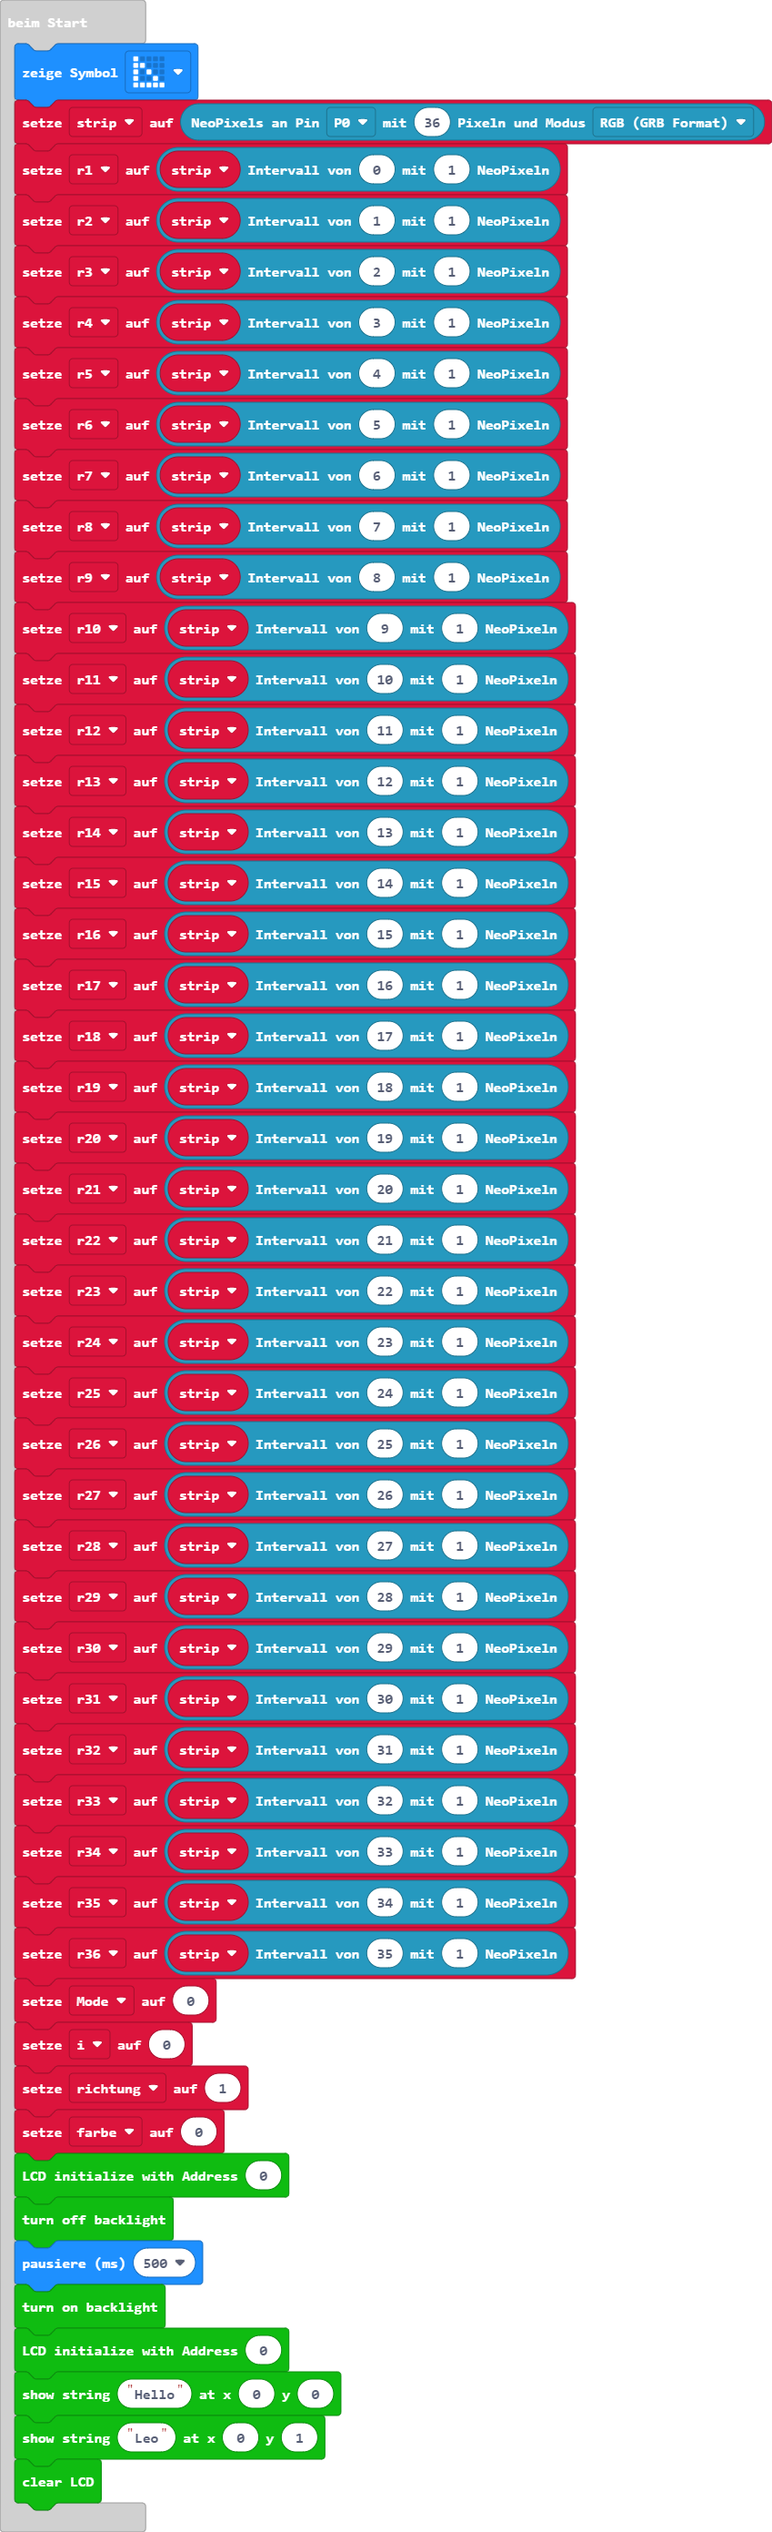
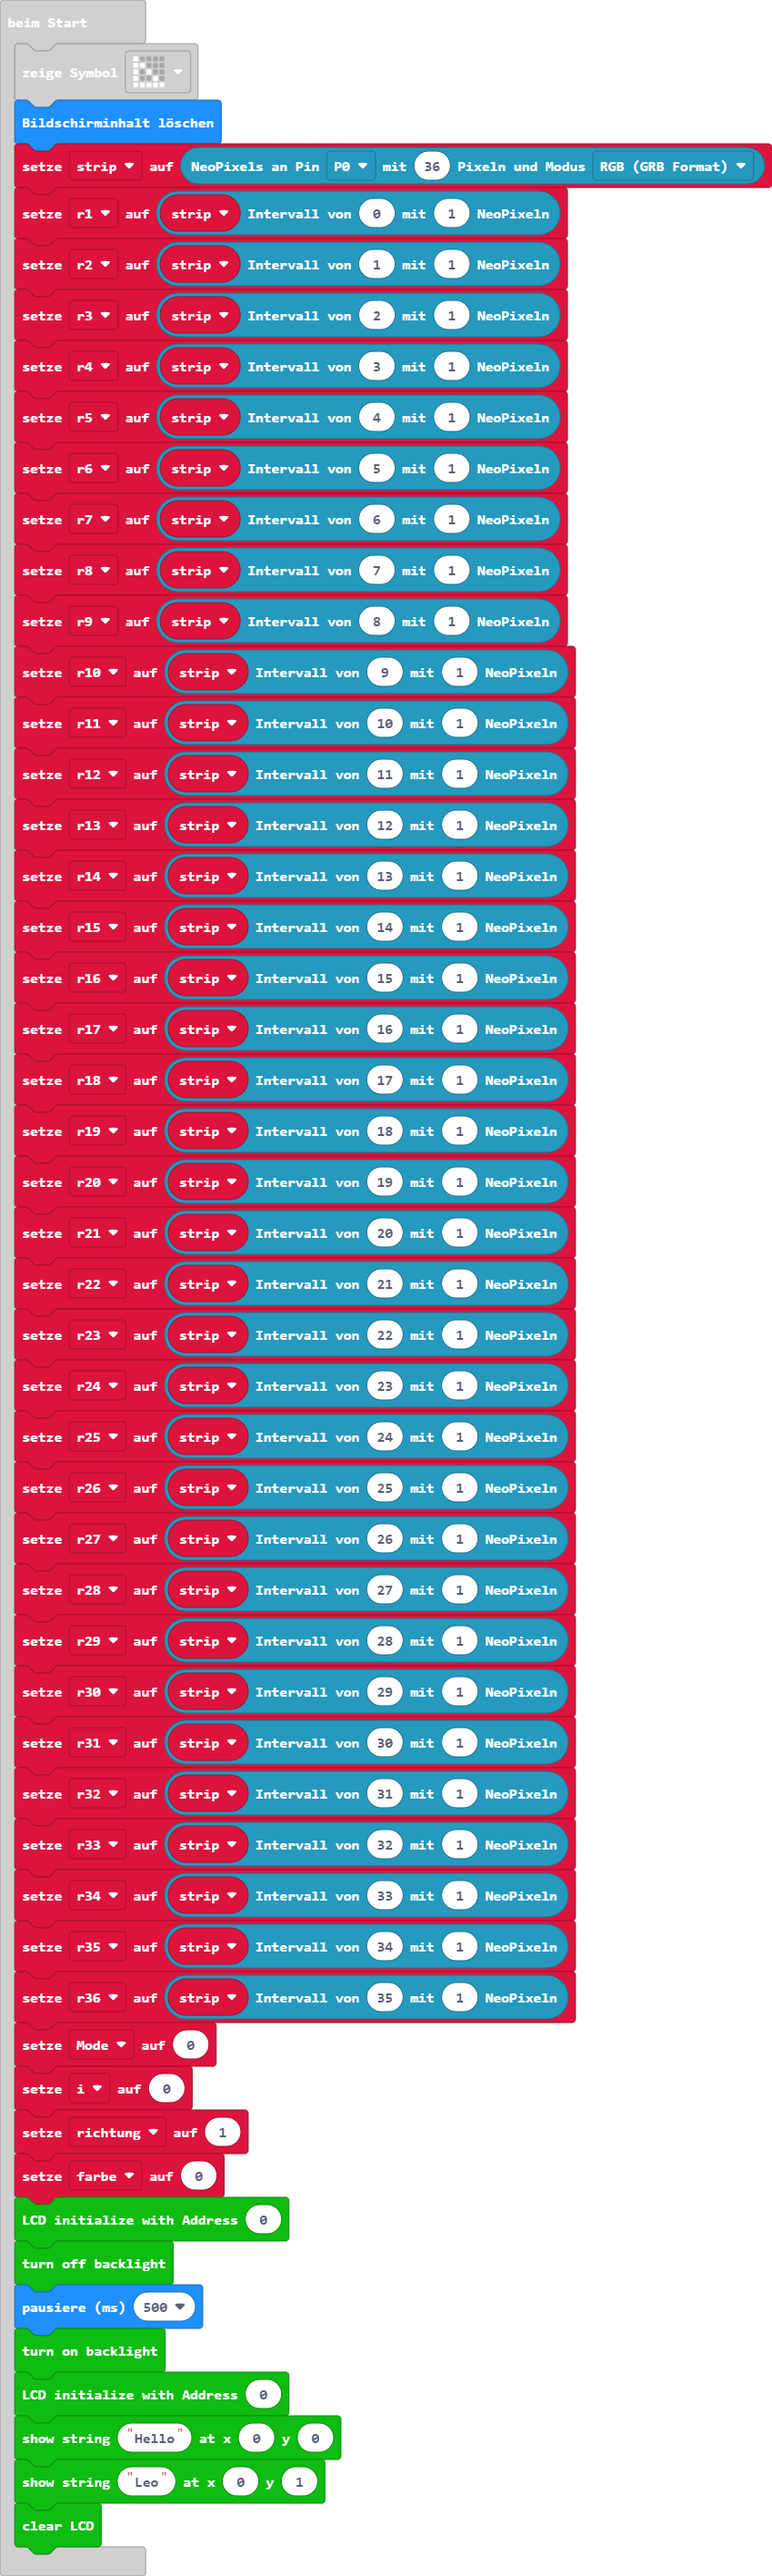
Screen Initzalise

Changed region(s): [[0.0, 0.0, 1.0, 0.9892]]

diff --git a/main.ts b/main.ts
@@ -169,6 +169,7 @@ let r2: neopixel.Strip = null
 let r1: neopixel.Strip = null
 let strip: neopixel.Strip = null
 basic.showIcon(IconNames.LeftTriangle)
+basic.clearScreen()
 strip = neopixel.create(DigitalPin.P0, 36, NeoPixelMode.RGB)
 r1 = strip.range(0, 1)
 r2 = strip.range(1, 1)
